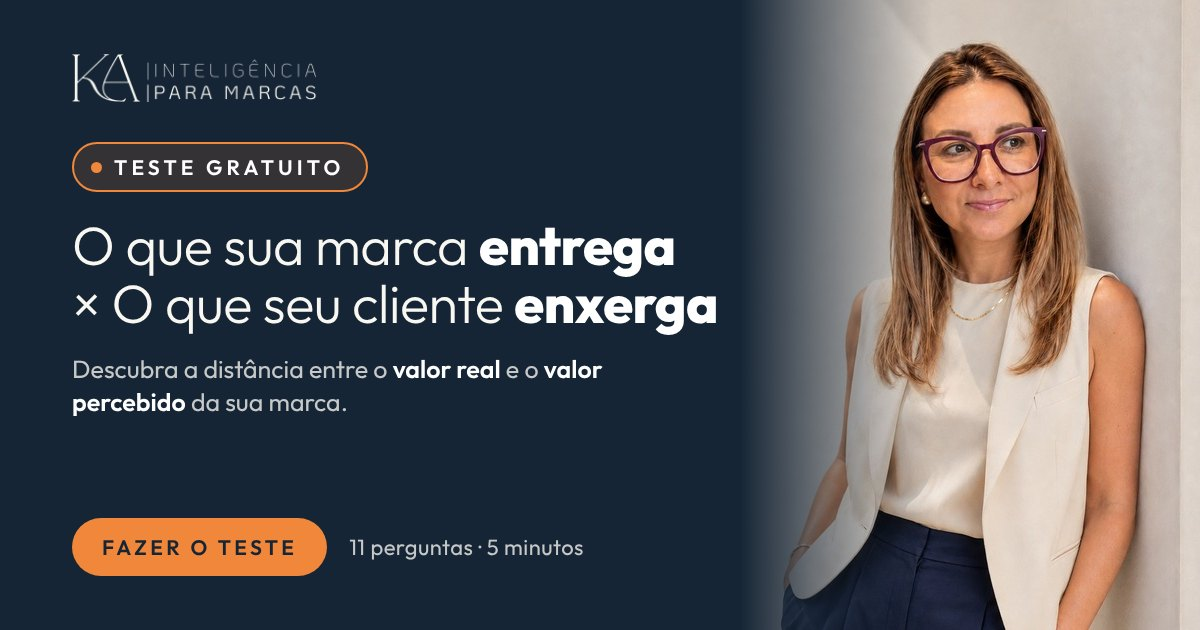
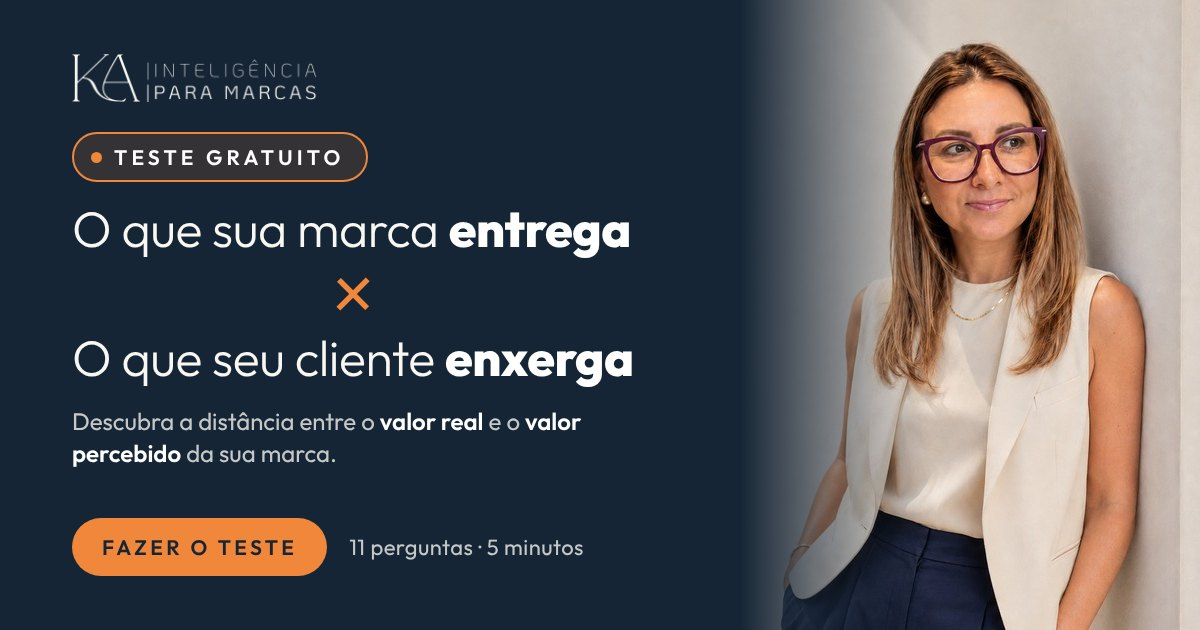
valorpercebido: título em duas linhas com × grande em laranja (página e imagem do link)
Claude-Session: https://claude.ai/code/session_017aiGVMKn5tw4KpzB2qogrv

Changed region(s): [[0.0617, 0.2111, 0.6167, 0.5429], [0.0617, 0.6333, 0.4933, 0.754], [0.0617, 0.5429, 0.5242, 0.6333]]

diff --git a/valorpercebido/index.html b/valorpercebido/index.html
@@ -7,8 +7,8 @@
 <meta property="og:title" content="Teste: O que sua marca entrega × O que seu cliente enxerga">
 <meta property="og:description" content="Teste gratuito, 11 perguntas e 5 minutos. Descubra a distância entre o valor real e o valor percebido da sua marca e receba o resultado na hora.">
 <meta property="og:site_name" content="KA | Inteligência para Marcas">
-<meta property="og:image" content="https://kellyalbert.com.br/images/og/og-valorpercebido.jpg">
-<meta property="og:image:secure_url" content="https://kellyalbert.com.br/images/og/og-valorpercebido.jpg">
+<meta property="og:image" content="https://kellyalbert.com.br/images/og/og-valorpercebido.jpg?v=2">
+<meta property="og:image:secure_url" content="https://kellyalbert.com.br/images/og/og-valorpercebido.jpg?v=2">
 <meta property="og:image:type" content="image/jpeg">
 <meta property="og:image:width" content="1200">
 <meta property="og:image:height" content="630">
@@ -16,7 +16,7 @@
 <meta property="og:url" content="https://kellyalbert.com.br/valorpercebido/">
 <meta property="og:locale" content="pt_BR">
 <meta name="twitter:card" content="summary_large_image">
-<meta name="twitter:image" content="https://kellyalbert.com.br/images/og/og-valorpercebido.jpg">
+<meta name="twitter:image" content="https://kellyalbert.com.br/images/og/og-valorpercebido.jpg?v=2">
 <meta name="theme-color" content="#152535">
 <link rel="icon" type="image/x-icon" href="/favicon.ico">
 <link rel="icon" type="image/png" sizes="32x32" href="/images/favicon-32x32.png">
@@ -61,6 +61,9 @@ button,input{font-family:inherit}
 .rotulo::before{content:'';width:2px;height:1.3em;background:var(--laranja)}
 .topo__titulo{margin:0;max-width:22ch;font-weight:300;font-size:clamp(1.6rem,6.4vw,2.2rem);line-height:1.18;letter-spacing:-.01em;text-wrap:balance}
 .topo__titulo b{font-weight:600;color:#fff}
+.topo__titulo{display:grid;justify-items:center;max-width:none}
+.topo__titulo span{display:block}
+.topo__x{color:var(--laranja);font-size:clamp(3rem,12vw,4rem);font-weight:300;line-height:.8;margin:6px 0 10px}
 .topo .rotulo::before{display:none}
 
 /* Cabeçalho do chat */
@@ -203,7 +206,7 @@ button,input{font-family:inherit}
 <main class="app">
   <header class="topo">
     <span class="rotulo"><i aria-hidden="true"></i>Teste gratuito</span>
-    <h1 class="topo__titulo">O que sua marca <b>entrega</b> × O que seu cliente <b>enxerga</b></h1>
+    <h1 class="topo__titulo"><span>O que sua marca <b>entrega</b></span><span class="topo__x" aria-hidden="true">×</span><span>O que seu cliente <b>enxerga</b></span></h1>
     <p class="topo__sub">Valor real e valor percebido</p>
   </header>
 
